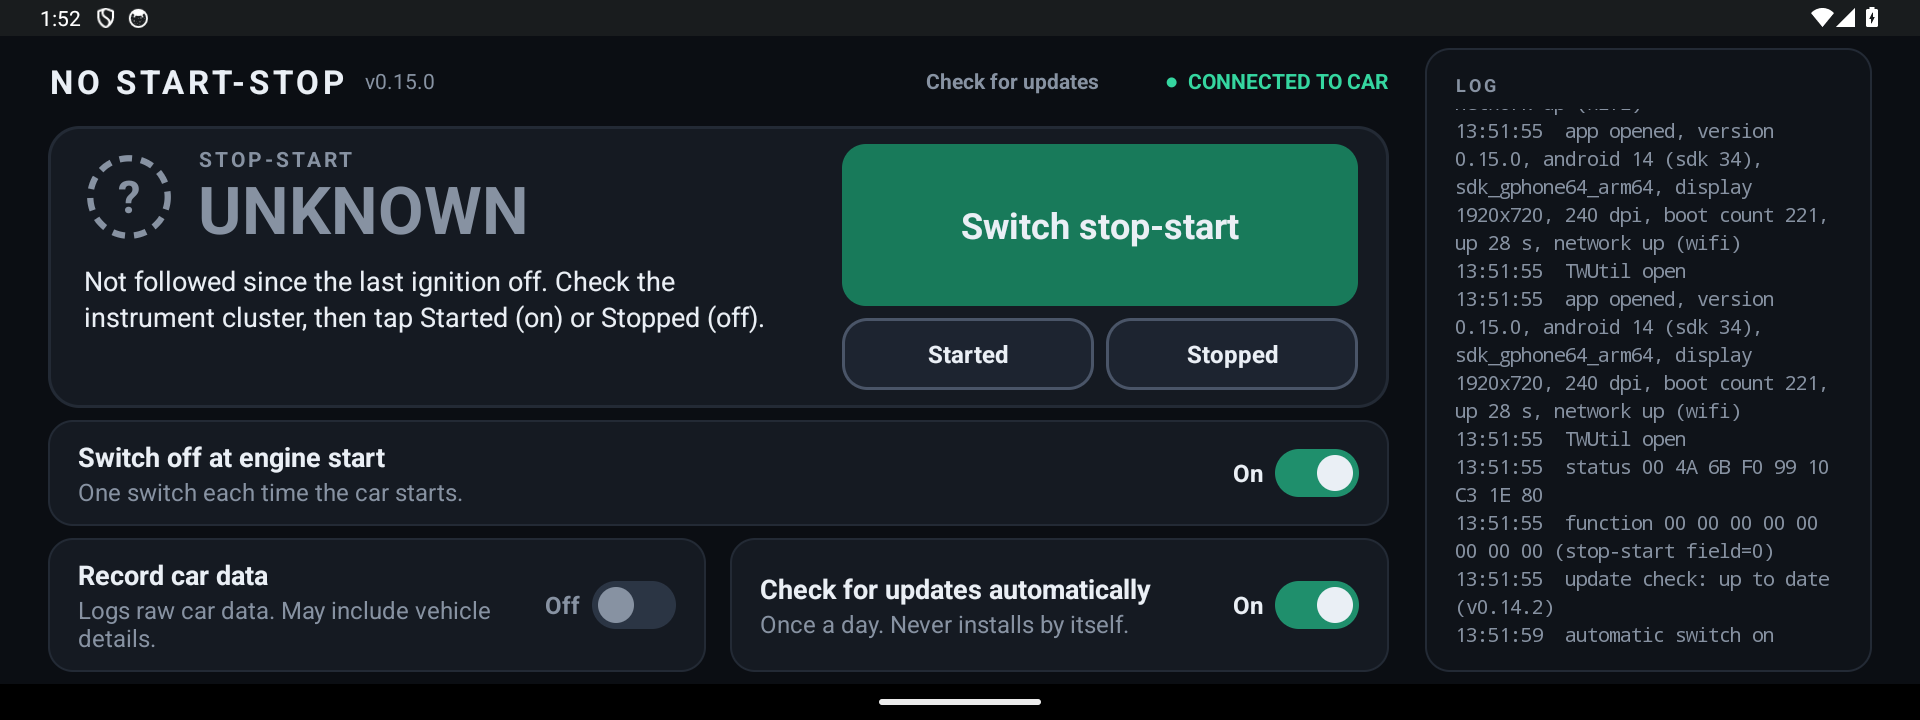
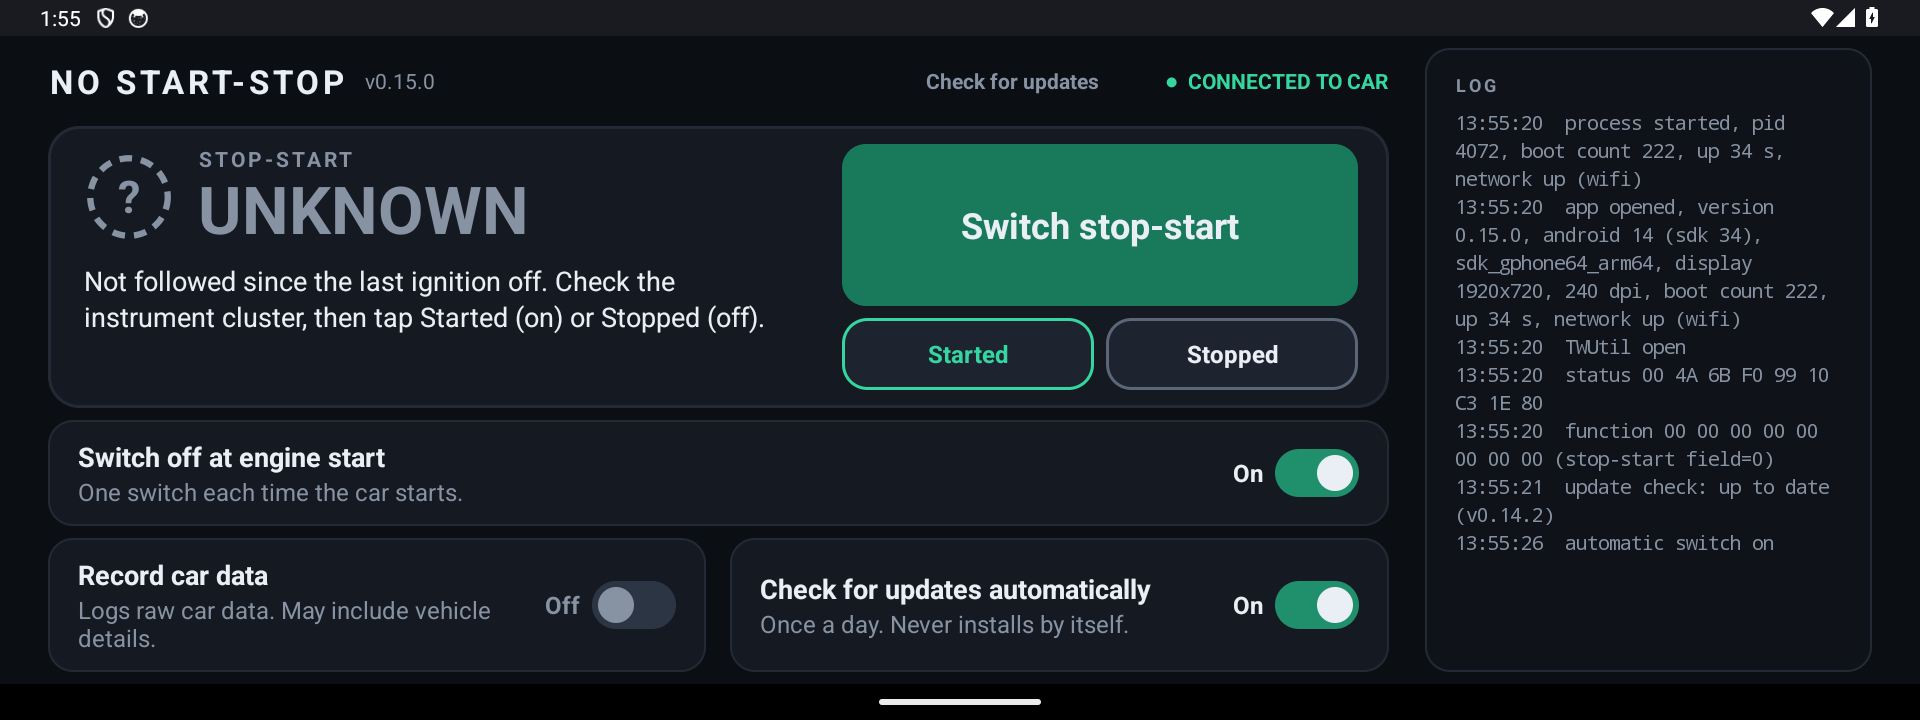
Colour the Started and Stopped buttons like the ON and OFF states

Changed region(s): [[0.75, 0.1528, 0.9688, 0.8861], [0.4375, 0.4889, 0.5625, 0.55], [0.4375, 0.4278, 0.5625, 0.4583]]

diff --git a/src/com/furgo/nostartstop/MainActivity.java b/src/com/furgo/nostartstop/MainActivity.java
@@ -53,6 +53,7 @@ public class MainActivity extends Activity implements CanBox.Listener {
     private static final int PRIMARY = 0xFF187A5A;  // 4.5:1 against TEXT
     private static final int PRIMARY_PRESSED = 0xFF1F8F6C;
     private static final int NEUTRAL = 0xFF1D2430;
+    private static final int OFF_EDGE = 0xFF5B6678;   // border of the card, and of a button, for stop-start off
     private static final int NEUTRAL_PRESSED = 0xFF2B3544;
 
     private static final int MAX_LOG = 50;
@@ -731,7 +732,7 @@ public class MainActivity extends Activity implements CanBox.Listener {
         int assumed = Prefs.assumedState(this);
         int stateColor = assumed == AssumedState.OFF ? TEXT : assumed == AssumedState.ON ? ACCENT : MUTED;
         badge.setState(assumed);
-        stateCard.setBackgroundDrawable(shape(CARD, 20, 2, assumed == AssumedState.UNKNOWN ? CARD_EDGE : assumed == AssumedState.OFF ? 0xFF5B6678 : ACCENT));
+        stateCard.setBackgroundDrawable(shape(CARD, 20, 2, assumed == AssumedState.UNKNOWN ? CARD_EDGE : assumed == AssumedState.OFF ? OFF_EDGE : ACCENT));
         String word = assumed == AssumedState.UNKNOWN ? "UNKNOWN" : AssumedState.name(assumed).toUpperCase(Locale.ROOT);
         SpannableStringBuilder sb = new SpannableStringBuilder(word);
         if (assumed != AssumedState.UNKNOWN) {
@@ -752,17 +753,18 @@ public class MainActivity extends Activity implements CanBox.Listener {
         boolean free = !pending && !bootBusy && SystemClock.elapsedRealtime() >= reportedAt + HOLD_MS;
         wrongButton.setVisibility(unknown ? View.GONE : View.VISIBLE);
         setRow.setVisibility(unknown ? View.VISIBLE : View.GONE);
-        renderOutlined(wrongButton, !unknown && free);
+        renderOutlined(wrongButton, !unknown && free, TEXT, 0xFF4A5568);
         boolean canSet = unknown && free && Prefs.canSetAssumed(this);
-        renderOutlined(setOnButton, canSet);
-        renderOutlined(setOffButton, canSet);
+        // The colours of the state each one sets: green for on, white for off.
+        renderOutlined(setOnButton, canSet, ACCENT, ACCENT);
+        renderOutlined(setOffButton, canSet, TEXT, OFF_EDGE);
         renderBoot();
     }
 
-    private void renderOutlined(TextView button, boolean enabled) {
+    private void renderOutlined(TextView button, boolean enabled, int color, int edge) {
         button.setEnabled(enabled);
-        button.setTextColor(enabled ? TEXT : 0xFF5C6676);
-        button.setBackgroundDrawable(enabled ? outlined() : dashed());
+        button.setTextColor(enabled ? color : 0xFF5C6676);
+        button.setBackgroundDrawable(enabled ? outlined(edge) : dashed());
     }
 
     /** Sets the unknown state to what the user reads on the instrument cluster. Sends nothing to the car. */
@@ -1119,10 +1121,10 @@ public class MainActivity extends Activity implements CanBox.Listener {
         return s;
     }
 
-    private StateListDrawable outlined() {
+    private StateListDrawable outlined(int edge) {
         StateListDrawable s = new StateListDrawable();
-        s.addState(new int[]{android.R.attr.state_pressed}, shape(NEUTRAL_PRESSED, 16, 2, 0xFF5B6678));
-        s.addState(new int[]{}, shape(NEUTRAL, 16, 2, 0xFF4A5568));
+        s.addState(new int[]{android.R.attr.state_pressed}, shape(NEUTRAL_PRESSED, 16, 2, edge));
+        s.addState(new int[]{}, shape(NEUTRAL, 16, 2, edge));
         return s;
     }
 

diff --git a/README.md b/README.md
@@ -43,7 +43,7 @@ In split screen the same screen is one scrolling column, here after a tap on **S
 - **Switch stop-start**: one button that sends one switch command to the car. The command is a toggle: each tap turns stop-start off if it was on, and on if it was off.
 - **Assumed state**: the car does not report whether stop-start is on or off, so the card shows the state the app assumes, as a large **OFF** (white), **ON** (green) or **UNKNOWN** (grey). Beside the word is the stop-start symbol, the "A" in a circular arrow: struck through for OFF, plain for ON, replaced by a dashed ring with "?" for UNKNOWN. OFF and ON carry the word "assumed"; the card says it is not read from the car. The instrument cluster shows a message when stop-start is switched off or on; look there to be sure. See [the assumed state](#the-assumed-stop-start-state).
 - **Split screen**: in a window narrower than 900 dp the screen is one scrolling column: header, stop-start card with its buttons below the text, one setting per row, then the log.
-- **Started** / **Stopped**: shown while the state is UNKNOWN. Read the instrument cluster and tap **Started** if stop-start is on, **Stopped** if it is off. The card then shows that state as assumed and says "Set by hand. Nothing sent to the car." Greyed out while **Switch off at engine start** is off or its background service has no link to the head unit, because then nothing would end the state at the next ignition off.
+- **Started** / **Stopped**: shown while the state is UNKNOWN. Read the instrument cluster and tap **Started** if stop-start is on, **Stopped** if it is off. They carry the colours of the state they set: **Started** green like ON, **Stopped** white like OFF. The card then shows that state as assumed and says "Set by hand. Nothing sent to the car." Greyed out while **Switch off at engine start** is off or its background service has no link to the head unit, because then nothing would end the state at the next ignition off.
 - **Car shows the opposite**: tap it when the instrument cluster disagrees with the assumed state. It writes one line to the log with what led to the assumed state and flips the shown state. It sends nothing to the car. While the state is unknown, **Started** and **Stopped** take its place. It is greyed out while a tap's command is being sent, while **Switch off at engine start** is sending ("Switching…"), and for 2 seconds after each report. The card then says "Noted in the log. Nothing sent to the car.", or, past the daily limit of report lines, "Changed, but not logged: too many reports today. Nothing sent to the car."
 - **Feedback**: a tap first asks the CAN box for a fresh status frame and picks the command from it, then sends. The button shows "Sending…" meanwhile. The card then says:
   - "Sent at HH:mm. Check the instrument cluster." once the CAN box echoes the command. When the command's bit is 0 the echo cannot confirm it, so this shows as soon as it is sent.
